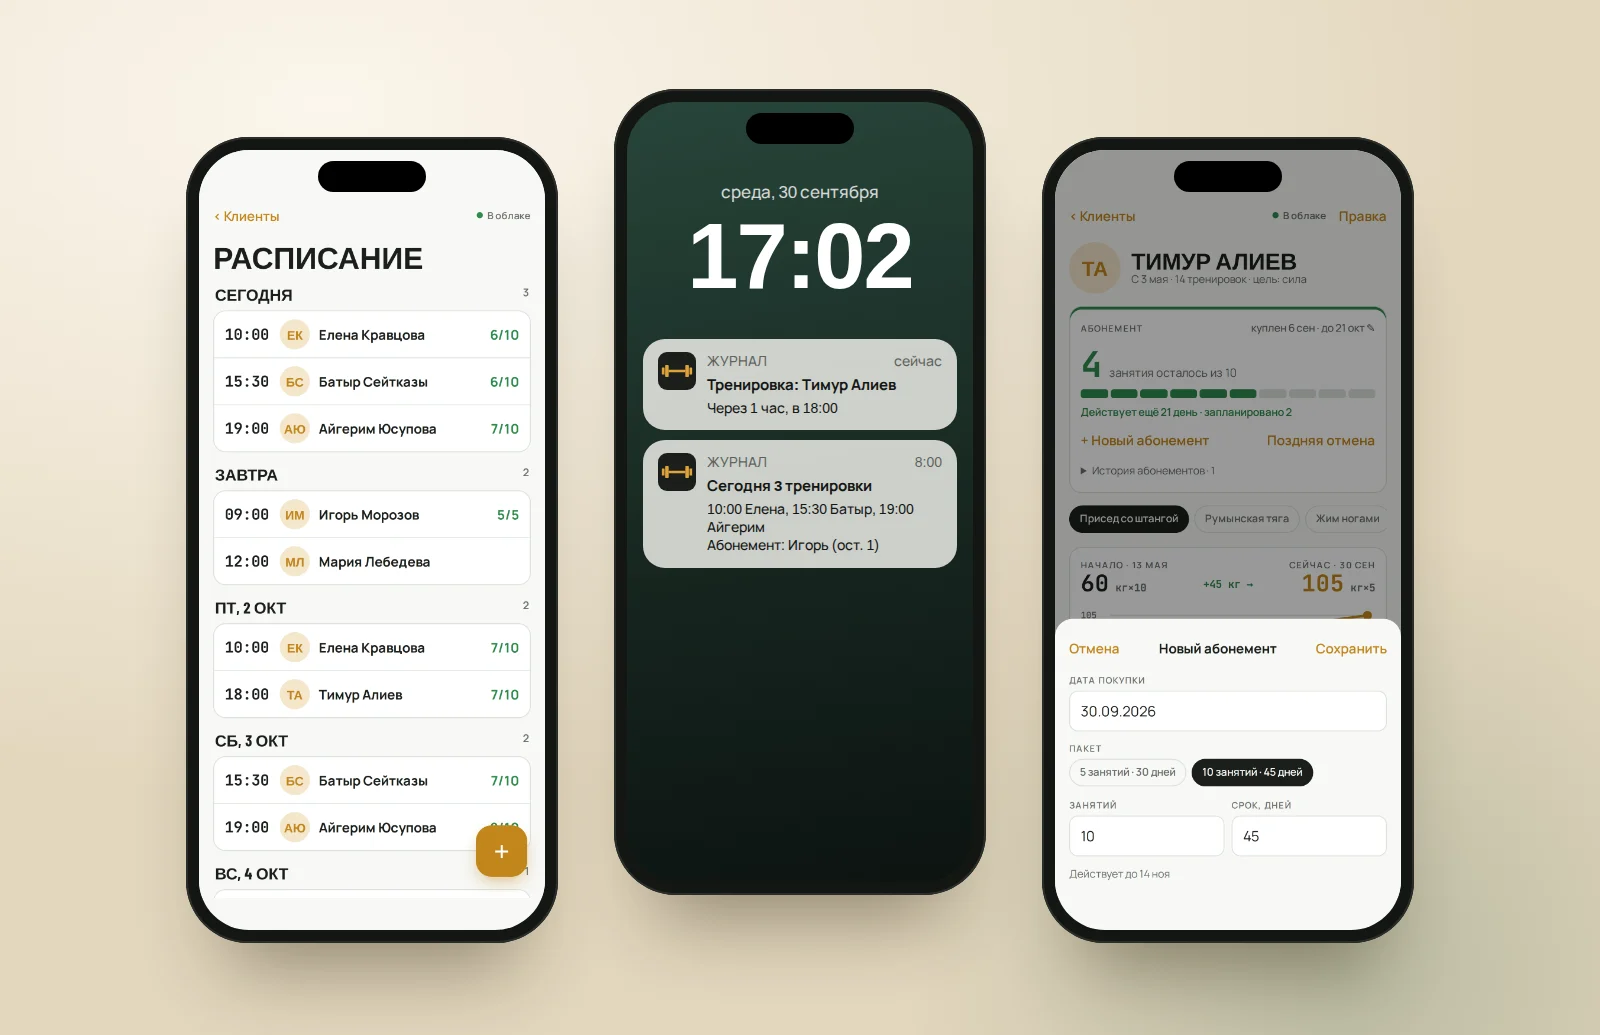
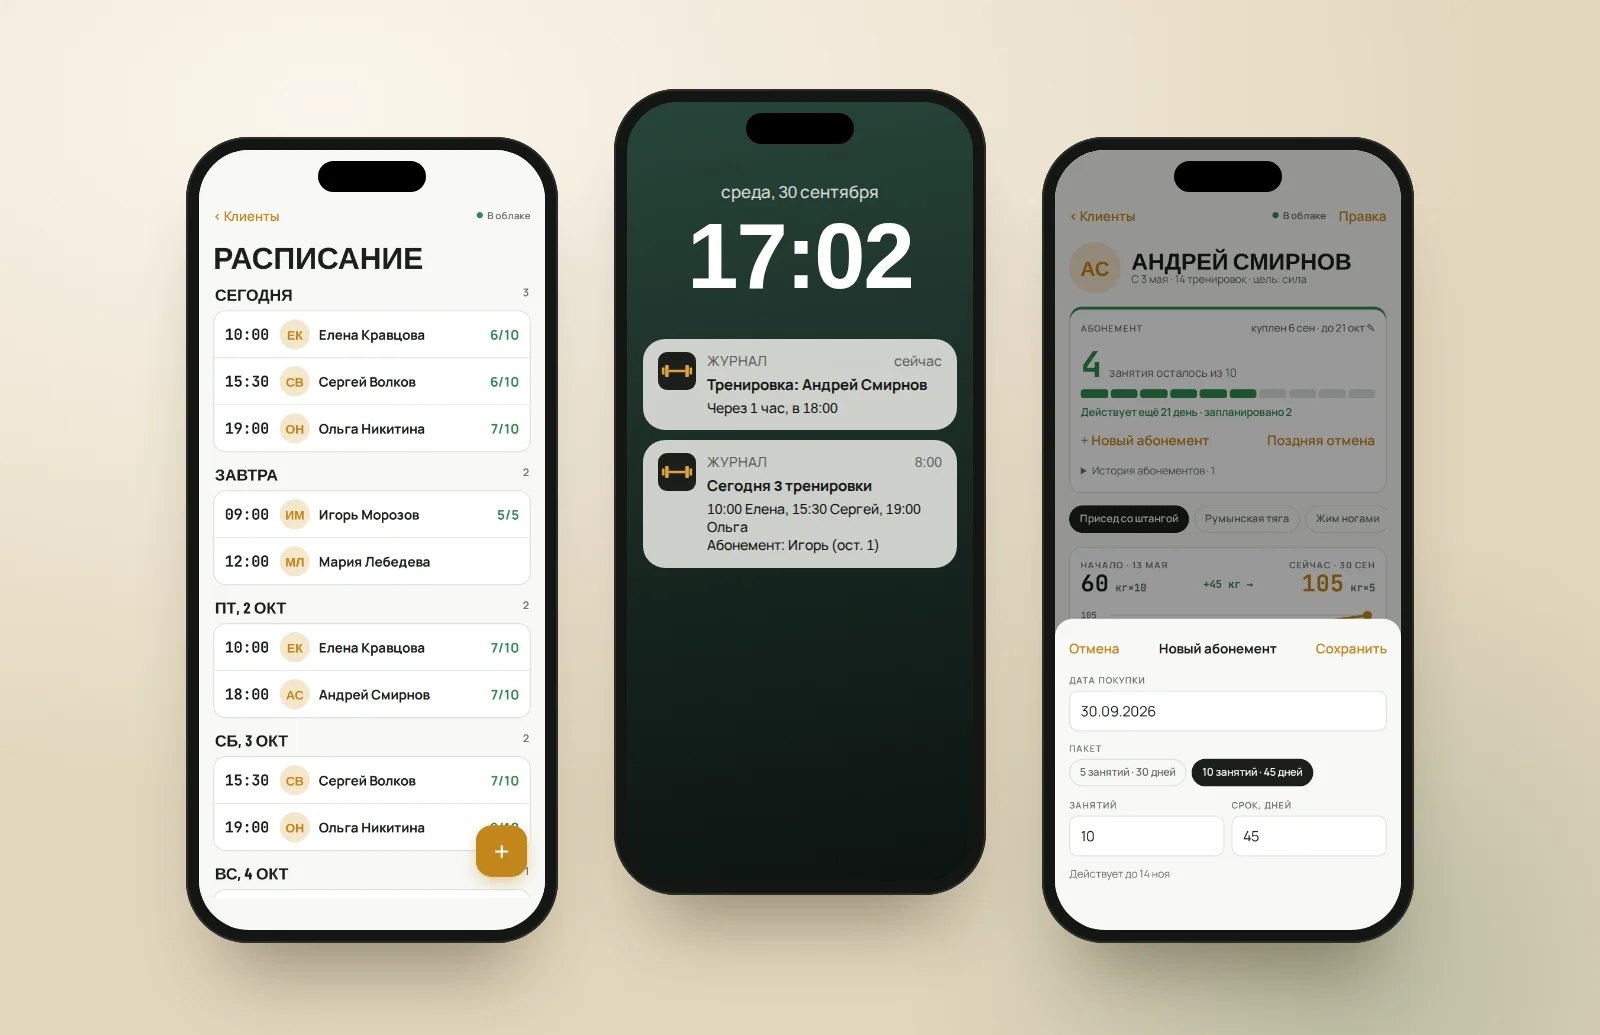
Use Russian demo names on trainer journal screenshots
Claude-Session: https://claude.ai/code/session_016RatQZVUz716yK2VSFB6Jr

diff --git a/case-yana-samoylova.html b/case-yana-samoylova.html
@@ -484,13 +484,13 @@ document.documentElement.classList.add('js');try{if(sessionStorage.getItem('nav-
     </div>
 
     <figure class="case-shot reveal">
-      <img src="images/yanapro-journal-1.webp"
+      <img src="images/yanapro-journal-1.webp?v=2"
            alt="Приложение «Журнал Зала» на трёх iPhone: список клиентов с расписанием на сегодня, карточка клиента с абонементом и графиком прогресса, журнал тренировки с подходами и отметкой рекорда"
            width="1600" height="1035" loading="lazy" decoding="async">
       <figcaption>Клиенты с приростом в килограммах, карточка с абонементом и графиком «с 60 до 105 кг», запись тренировки с подсказкой прошлого результата. Данные на скриншотах демонстрационные.</figcaption>
     </figure>
     <figure class="case-shot reveal">
-      <img src="images/yanapro-journal-2.webp"
+      <img src="images/yanapro-journal-2.webp?v=2"
            alt="Приложение «Журнал Зала»: расписание тренировок по дням, push-уведомления на экране блокировки iPhone и окно нового абонемента на 10 занятий"
            width="1600" height="1035" loading="lazy" decoding="async">
       <figcaption>Расписание по дням с номером занятия в абонементе, напоминания на экране блокировки и оформление нового абонемента в два касания.</figcaption>
